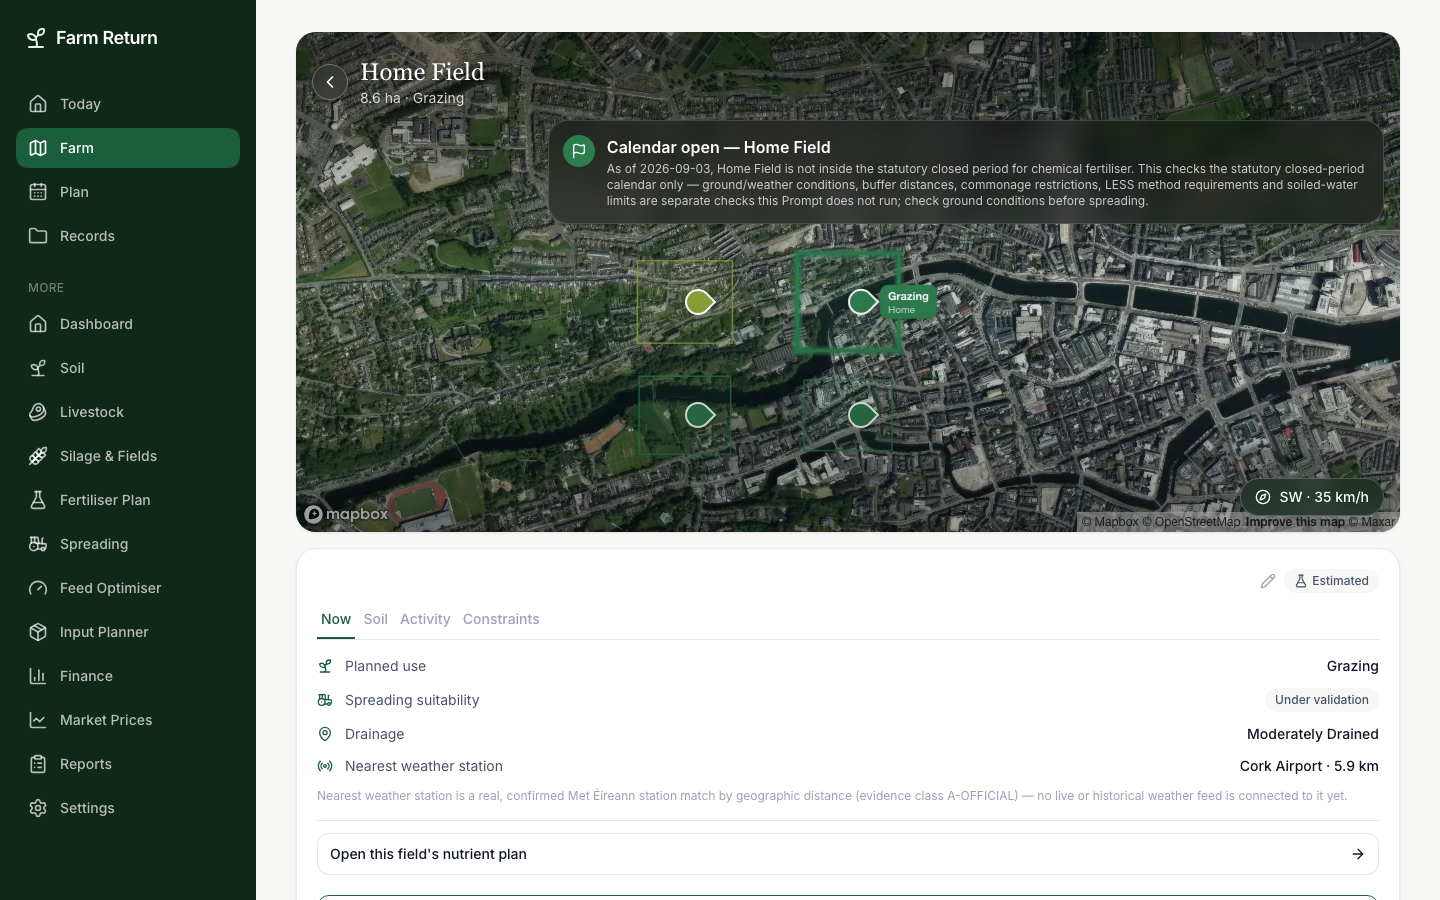
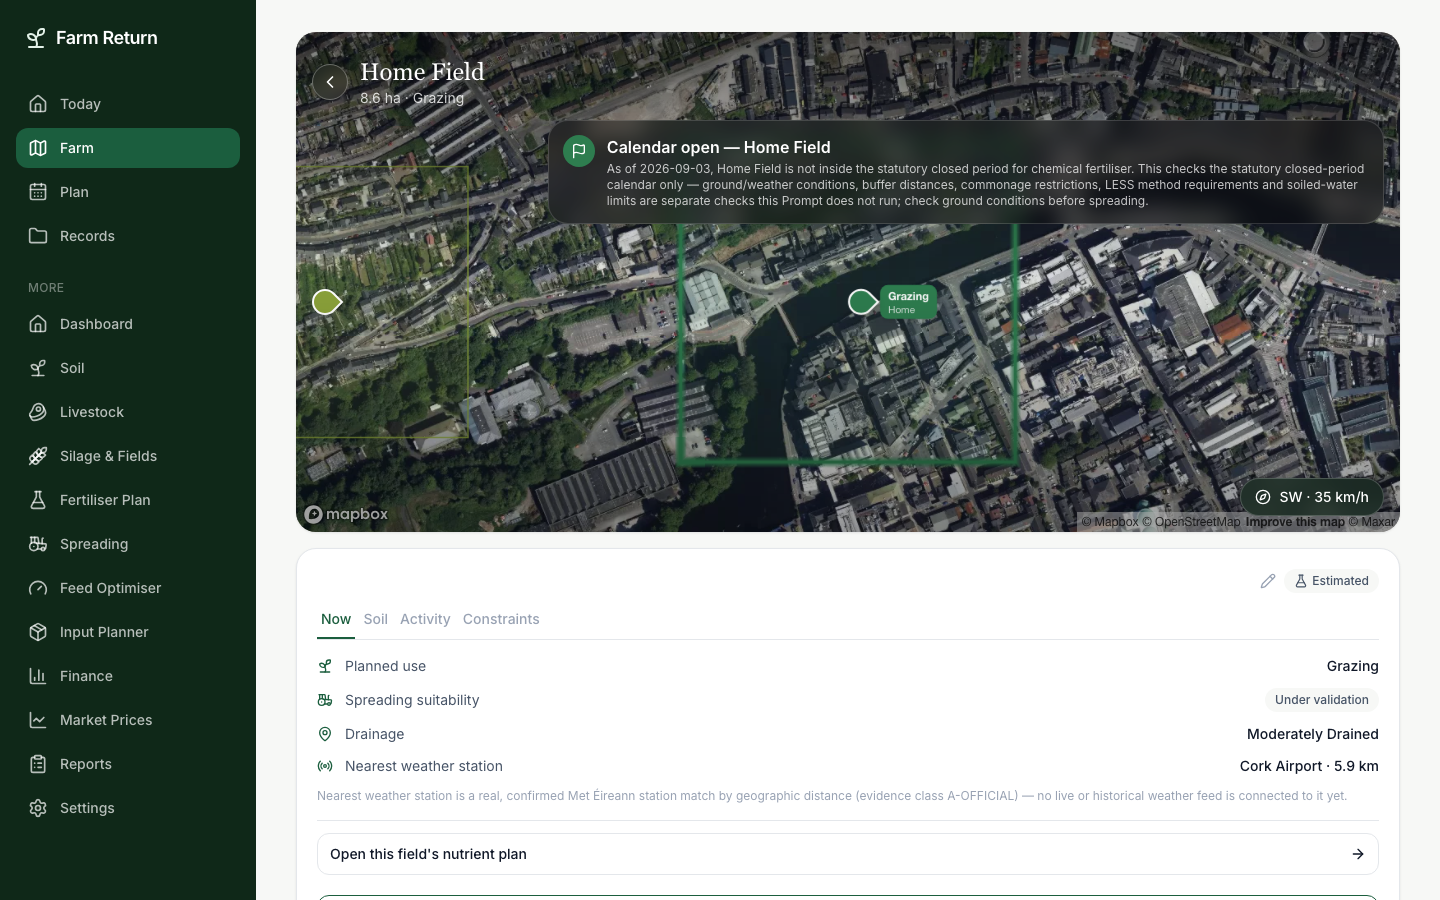
Strict Visual Reproduction round 6: cross-screen audit refinements (Field/Plan/Records)
Codex audit results this round: Field detail 7.9/10 (round 6, PARTIAL,
LOW drift, up from 7.7), Plan 7.8/10 (round 1, PARTIAL, LOW drift),
Records 7.4/10 (round 1, PARTIAL, LOW drift). All findings this round
were genuinely incremental refinements or fixable polish, not
oscillations — addressed the safe, screen-scoped ones:

Field detail (round 6, image3.png):
- Camera tightened back toward round 4's framing (round 5's wider
  padding for neighbours left the selected field "too small and
  peripheral" — the two goals are in real tension; this favours
  selected-field dominance while still keeping most neighbours in
  frame).
- Status description: line-clamp-3 was still truncating a longer real
  Prompt description with an ellipsis; unclamping it outright (this
  round's first attempt) grew the card tall enough to cover most of the
  hero on this farm's own longest real description — a regression this
  same round's own screenshot review caught before committing.
  line-clamp-4 is the balance: room for most real descriptions to
  finish without one long outlier swallowing the map.
- Deeper panel overlap (-mt-10 -> -mt-16) for a more clearly "floating"
  read; selected-marker scale increased (1.15 -> 1.35) for a stronger
  focal identity, matching without fabricating a field number.

Plan (round 1, image1.png "1. PLAN" panel):
- Tightened vertical rhythm (gap-8 -> gap-6).
- Opportunities list: dropped the outer Card's border/shadow so it
[…]

Changed region(s): [[0.1875, 0.0311, 1.0, 0.5911]]

diff --git a/src/app/(app)/fields/page.tsx b/src/app/(app)/fields/page.tsx
@@ -330,8 +330,13 @@ function FieldDetailView({
           selectedFieldId={field.id}
           onSelectField={onSelectField}
           flyToSelection
-          flyToPadding={{ top: 130, bottom: 90, left: 110, right: 110 }}
-          flyToMaxZoom={14}
+          // Codex audit round 6: round 5's wide padding (for real
+          // neighbouring fields) left the selected boundary "too small and
+          // peripheral" — image3's own selected field dominates the
+          // centre. Tightened back toward round 4's framing; neighbours
+          // (added round 5) mostly still fit, just less generously spaced.
+          flyToPadding={{ top: 110, bottom: 70, left: 70, right: 70 }}
+          flyToMaxZoom={16}
           glowSelection
           compactNeighbourLabels
           center={field.centroid}
@@ -388,7 +393,18 @@ function FieldDetailView({
                   </span>
                   <div className="min-w-0">
                     <p className="text-base font-semibold text-white">{leadingPrompt.title}</p>
-                    <p className="mt-0.5 line-clamp-3 text-xs text-white/75">{leadingPrompt.description}</p>
+                    {/* Codex audit round 6: line-clamp-3 still truncated the
+                        real explanation with an ellipsis on a longer real
+                        Prompt description — image3's own card fully shows
+                        its (much shorter, invented) supporting line.
+                        Fully unclamped grew the card tall enough to cover
+                        most of the hero on this farm's own longest real
+                        description (a real regression caught in this same
+                        round's own screenshot review) — line-clamp-4 is
+                        the balance: room for most real descriptions to
+                        finish, without one long outlier swallowing the
+                        map. */}
+                    <p className="mt-0.5 line-clamp-4 text-xs text-white/75">{leadingPrompt.description}</p>
                   </div>
                 </div>
               ) : null}
@@ -412,8 +428,9 @@ function FieldDetailView({
           floating panel — deeper overlap, a side inset (so the panel
           doesn't run edge-to-edge under the still-full-bleed hero above
           it) and a stronger shadow read more like a raised card over the
-          continuing map, not a harder cut into a new section. */}
-      <div className="-mt-10 flex flex-col gap-4 px-1 pb-24 lg:mt-4 lg:px-0 lg:pb-0">
+          continuing map, not a harder cut into a new section. Codex audit
+          round 6: still "only a shallow map overlap" — deeper again. */}
+      <div className="-mt-16 flex flex-col gap-4 px-1 pb-24 lg:mt-4 lg:px-0 lg:pb-0">
         <FieldDrawer field={field} hideIdentity className="rounded-2xl shadow-lg lg:rounded-fr-card lg:shadow-fr-card" />
       </div>
 
@@ -424,7 +441,7 @@ function FieldDetailView({
           (light system here, not the hero's dark overlay, since it sits
           over the light panel); a normal static control at the end of
           the column on desktop, which has no bottom nav to pin above. */}
-      <div className="fixed inset-x-0 bottom-[calc(56px+env(safe-area-inset-bottom))] z-20 px-4 lg:static lg:bottom-auto lg:z-auto lg:mt-4 lg:px-0">
+      <div className="fixed inset-x-0 bottom-[calc(64px+env(safe-area-inset-bottom))] z-20 px-4 lg:static lg:bottom-auto lg:z-auto lg:mt-4 lg:px-0">
         <div className="flex items-center gap-2 rounded-fr-card border border-fr-border bg-fr-surface p-3 shadow-fr-card lg:border-0 lg:bg-transparent lg:p-0 lg:shadow-none">
           <AskAIButton context={askAIContext} className="shrink-0 border-fr-border bg-fr-surface-alt px-3 text-fr-ink-900" />
           {primaryAction}

diff --git a/src/app/(app)/plan/page.tsx b/src/app/(app)/plan/page.tsx
@@ -107,7 +107,10 @@ export default function PlanPage() {
           image1 has no desktop mockup to reproduce here, only mobile. */}
       <PageHeader title="Plan" subtitle="What's ahead" actions={<AskAIButton context={askAIContext} />} />
 
-      <div className="flex flex-col gap-8">
+      {/* Codex audit round 1 (Strict Visual Reproduction, Plan): "vertical
+          gaps... substantially larger than in the reference, reducing
+          useful information density" — tightened gap-8 -> gap-6. */}
+      <div className="flex flex-col gap-6">
         {/* Codex audit round 4 (Strict Visual Reproduction, Plan): image1's
             own Plan panel leads with one featured callout ("Best spreading
             window") above its plain list, not a flat, undifferentiated
@@ -174,7 +177,12 @@ export default function PlanPage() {
             // restrained surface (not one card per row) with progressive
             // disclosure, same pattern Today's own secondary-Prompts list
             // already uses.
-            <Card className="p-0">
+            // Codex audit round 1 (Strict Visual Reproduction, Plan): "one
+            // conspicuous bordered container with strong full-width
+            // dividers... feels more like a queue than the reference's
+            // lighter plain-row treatment" — border/shadow dropped so the
+            // surface is a quiet grouping, not a boxed admin panel.
+            <Card className="border-0 p-0 shadow-none">
               <div>
                 {secondaryOpportunities.slice(0, visibleOpportunityCount).map((p) => (
                   <PromptListRow key={p.id} prompt={p} onViewDetails={() => setOpenPrompt(p)} />
@@ -210,7 +218,7 @@ export default function PlanPage() {
           cross-screen convention with no image1 desktop mockup to follow
           instead). Fixed above the real bottom nav — same real-estate
           problem and same fix as Field detail's own persistent action. */}
-      <div className="fixed inset-x-0 bottom-[calc(56px+env(safe-area-inset-bottom))] z-20 px-4 lg:hidden">
+      <div className="fixed inset-x-0 bottom-[calc(64px+env(safe-area-inset-bottom))] z-20 px-4 lg:hidden">
         <AskAIButton context={askAIContext} className="w-full justify-center py-3 shadow-fr-card" />
       </div>
 

diff --git a/src/components/next/ActivityTimelineCard.tsx b/src/components/next/ActivityTimelineCard.tsx
@@ -101,10 +101,17 @@ export function ActivityTimelineCard({
    * blanket "unavailable" state. */
   partiallyUnavailable?: boolean;
 }) {
+  // Codex audit round 1 (Strict Visual Reproduction, Records): the empty
+  // state was "disproportionately tall and visually dominant compared
+  // with the reference's compact activity surfaces" and its text "low-
+  // contrast... wraps into a broad two-line block" — tighter padding and
+  // a narrower measure read as a lightweight placeholder, not a large
+  // empty panel; slightly darker ink keeps it legible while still
+  // secondary.
   if (unavailable) {
     return (
-      <Card>
-        <p className="py-6 text-center text-sm text-fr-ink-400">
+      <Card className="py-4">
+        <p className="mx-auto max-w-[220px] py-2 text-center text-sm text-fr-ink-600">
           Your activity history is temporarily unavailable — try again shortly.
         </p>
       </Card>
@@ -113,8 +120,8 @@ export function ActivityTimelineCard({
 
   if (entries.length === 0) {
     return (
-      <Card>
-        <p className="py-6 text-center text-sm text-fr-ink-400">
+      <Card className="py-4">
+        <p className="mx-auto max-w-[220px] py-2 text-center text-sm text-fr-ink-600">
           No activity yet — completed jobs and recorded decisions will appear here.
         </p>
       </Card>

diff --git a/src/components/farm/MapHero.tsx b/src/components/farm/MapHero.tsx
@@ -416,7 +416,12 @@ export function MapHero({
       el.type = "button";
       el.setAttribute("aria-label", statusLabel ? `${field.name} — ${statusLabel}` : field.name);
       el.className = "flex items-center gap-1.5 transition-transform";
-      if (selected) el.style.transform = "scale(1.15)";
+      // Codex audit round 6 (Strict Visual Reproduction, Field detail):
+      // the selected marker "resembles the neighbouring status-marker
+      // system" — a bigger scale step (was 1.15) gives it the same kind
+      // of clear focal presence image3's own central selected marker has,
+      // without fabricating a field number this app has no real data for.
+      if (selected) el.style.transform = "scale(1.35)";
 
       // Codex audit round 1 (Strict Visual Reproduction): "field markers
       // use small circular dots... they read more like map captions than

diff --git a/src/app/(app)/records/RecordsPageClient.tsx b/src/app/(app)/records/RecordsPageClient.tsx
@@ -97,7 +97,7 @@ export function RecordsPageClient({
           Ask AI this way" direction, applied here on mobile (Plan/Field
           detail's own identical fix). Reserves scroll room the same way. */}
       <div className="h-16 lg:hidden" aria-hidden="true" />
-      <div className="fixed inset-x-0 bottom-[calc(56px+env(safe-area-inset-bottom))] z-20 px-4 lg:hidden">
+      <div className="fixed inset-x-0 bottom-[calc(64px+env(safe-area-inset-bottom))] z-20 px-4 lg:hidden">
         <AskAIButton context={askAIContext} className="w-full justify-center py-3 shadow-fr-card" />
       </div>
     </>
